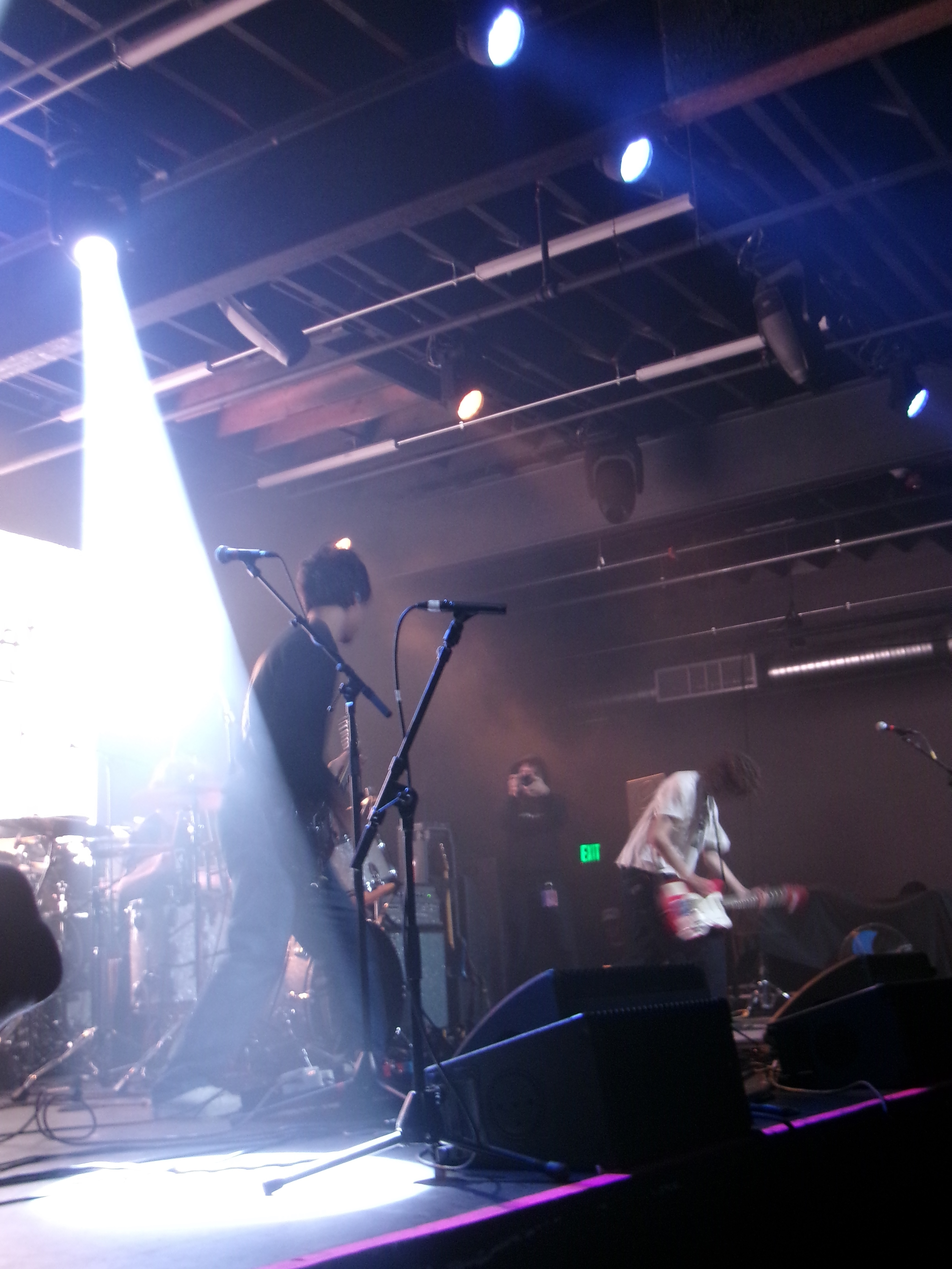
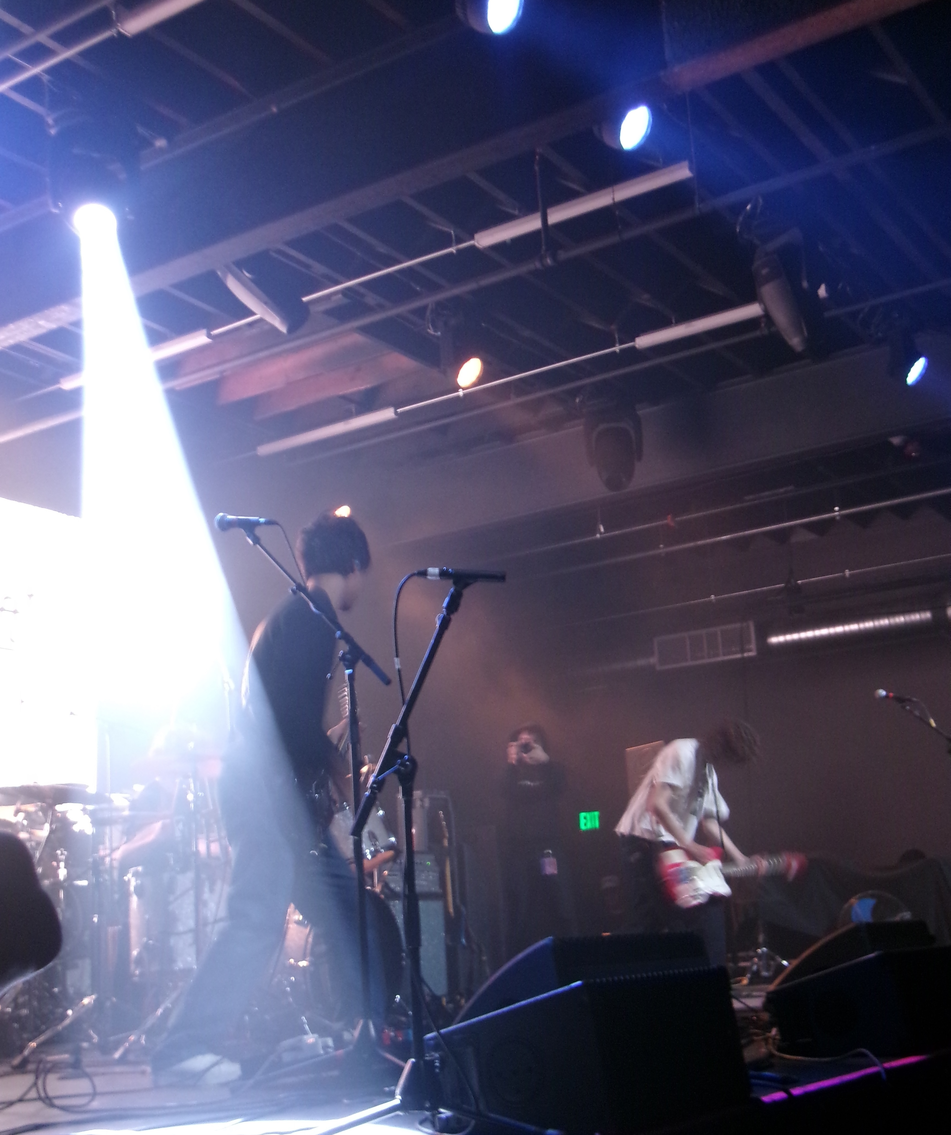
yup

diff --git a/main.js b/main.js
@@ -91,9 +91,15 @@ const PROJECTS = {
         ],
 
         gallery: [
-            { type: 'image', src: 'images/concerts/100_1272.JPG', alt: 'concert' },
+            { type: 'image', src: 'images/concerts/100_1304.JPG' },
+            { type: 'image', src: 'images/concerts/100_1272.JPG' },
+            {type: 'image', src: 'images/concerts/100_1285.JPG' },
+            {type: 'image', src: 'images/concerts/IMG_6861.jpeg' },
+            {type: 'image', src: 'images/concerts/IMG_6898.jpeg' },
+            {type: 'image', src: 'images/concerts/IMG_6922.jpeg' },
+            {type: 'image', src: 'images/concerts/IMG_6972.jpeg' },
+            {type: 'image', src: 'images/concerts/IMG_7063.jpeg' },
             // { type: 'video', src: 'images/concerts/100_1273.MOV', alt: 'Show clip', caption: ' ' },
-            { type: 'image', src: 'images/concerts/100_1304.JPG', alt: 'Concert' },
         ],
     },
     'more-work': {

diff --git a/index.html b/index.html
@@ -126,7 +126,6 @@
 
                 <a href="https://www.openstreetmap.org/"><img width="88" height="31" src="images/osm-button.png"/></a>
                 
-                <!-- <div class="background-text">ᯓ★</div> -->
             </div>
             <div class="resize-layer" aria-hidden="true">
                 <div class="resize-handle resize-n" data-dir="n"></div>
